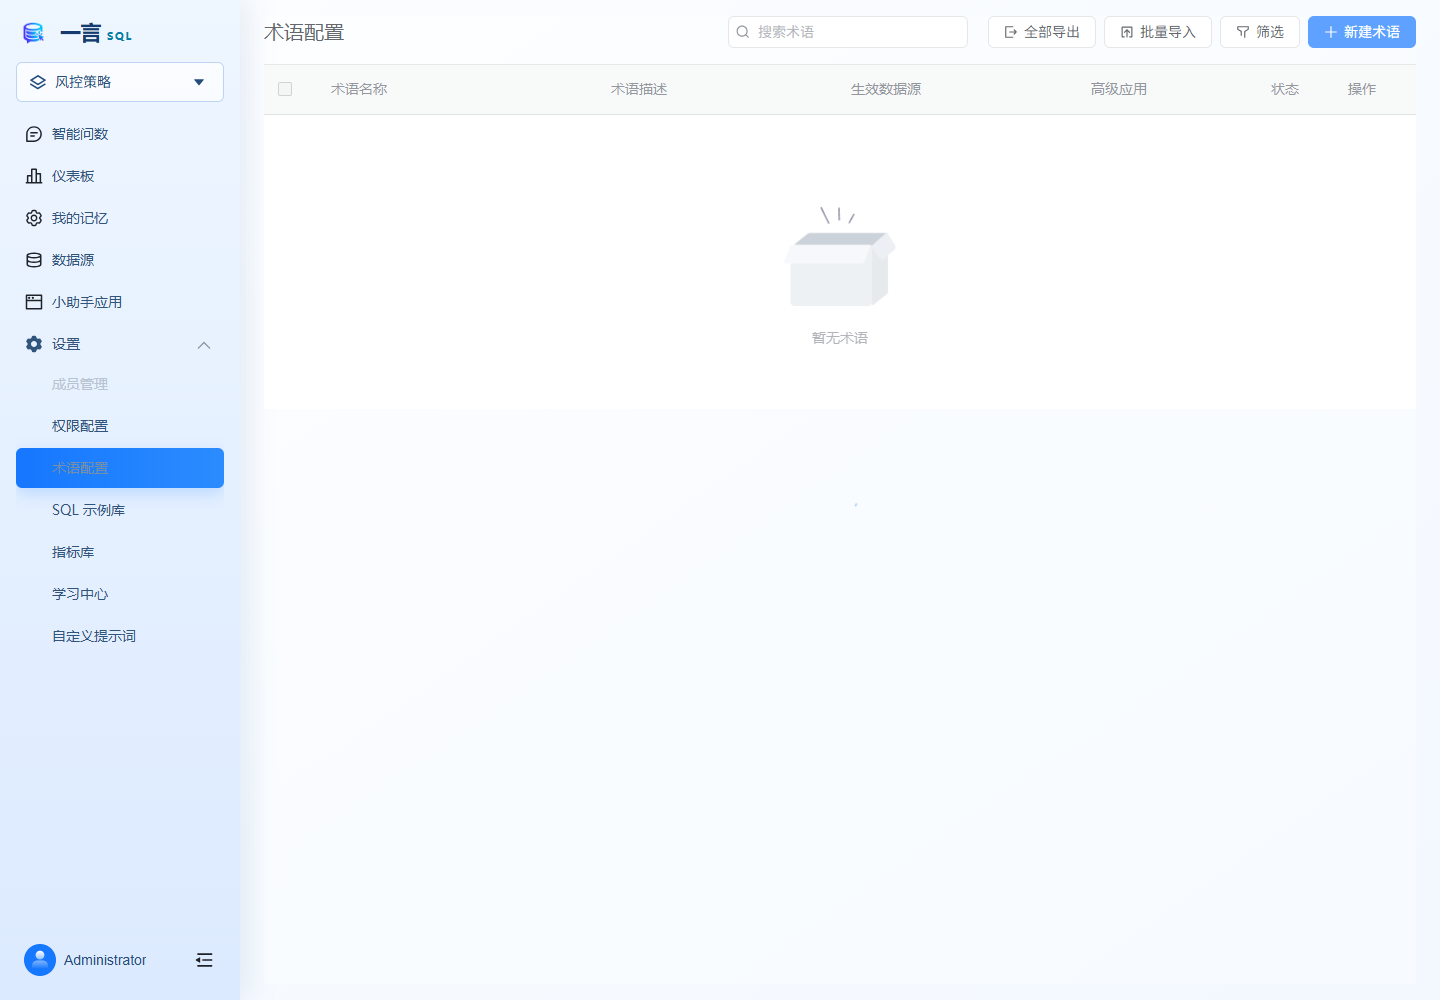
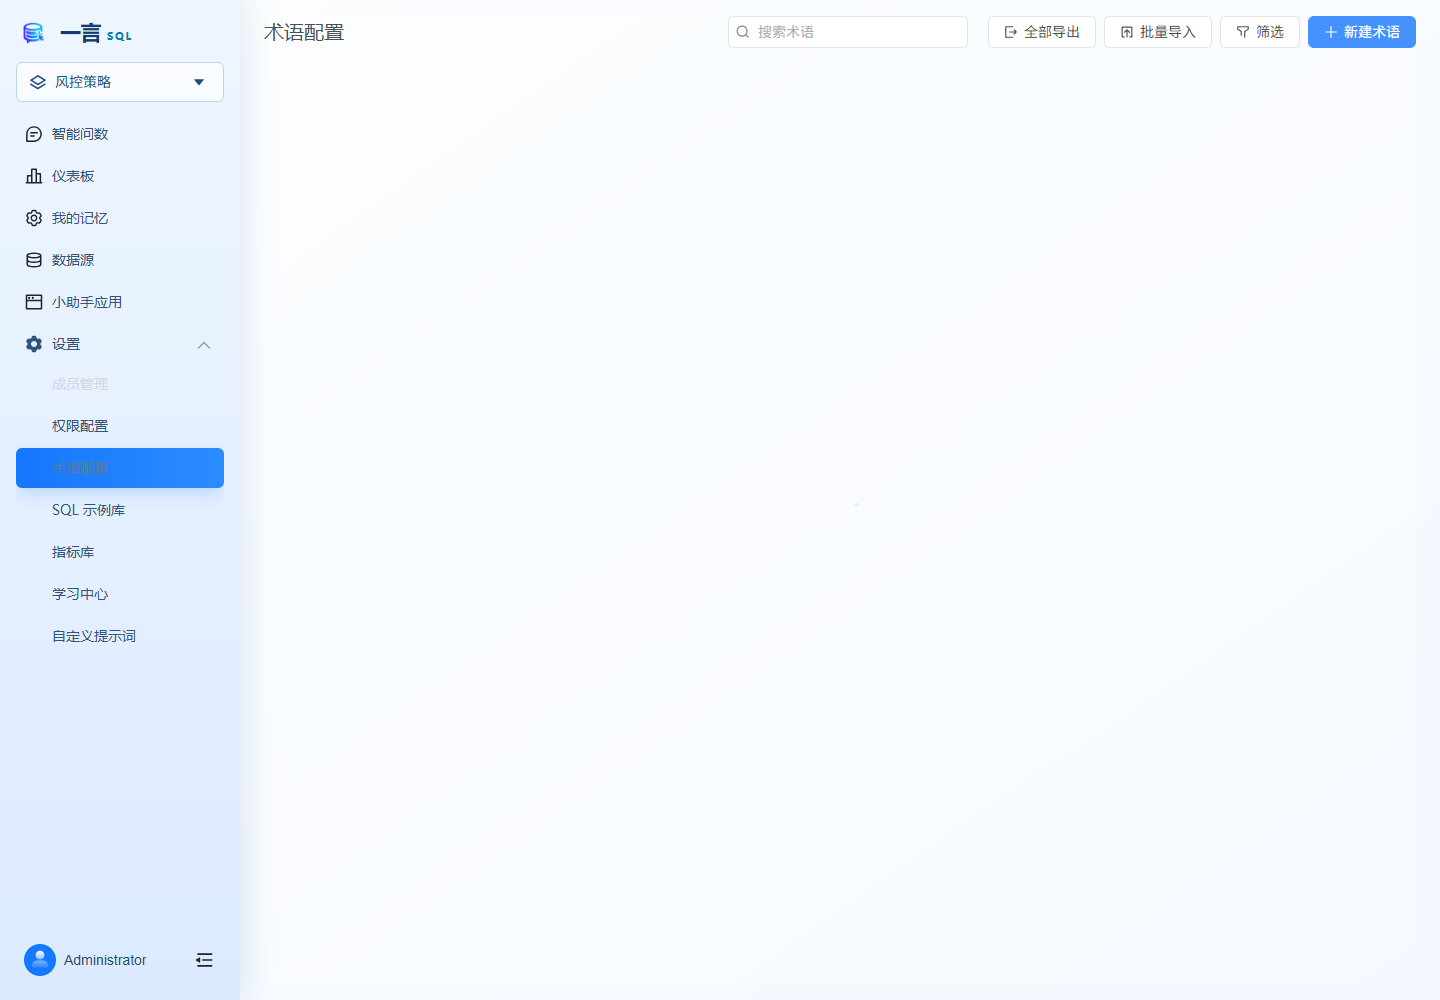
feat：新增密码修改功能

diff --git a/frontend/src/views/system/user/User.vue b/frontend/src/views/system/user/User.vue
@@ -165,61 +165,13 @@
               <el-tooltip
                 :offset="14"
                 effect="dark"
-                :content="$t('common.reset_password')"
+                :content="$t('user.change_password')"
                 placement="top"
               >
-                <el-icon
-                  :ref="
-                    (el: any) => {
-                      setButtonRef(el, scope.row)
-                    }
-                  "
-                  v-click-outside="() => onClickOutside(scope.row)"
-                  class="action-btn"
-                  size="16"
-                >
+                <el-icon class="action-btn" size="16" @click="openPasswordDialog(scope.row)">
                   <IconLock></IconLock>
                 </el-icon>
               </el-tooltip>
-              <el-popover
-                :ref="
-                  (el: any) => {
-                    setPopoverRef(el, scope.row)
-                  }
-                "
-                placement="right"
-                virtual-triggering
-                :width="300"
-                :virtual-ref="scope.row.buttonRef"
-                trigger="click"
-                show-arrow
-              >
-                <div class="reset-pwd-confirm">
-                  <div class="confirm-header">
-                    <span class="icon-span">
-                      <el-icon size="24">
-                        <icon_warning_filled class="svg-icon" />
-                      </el-icon>
-                    </span>
-                    <span class="header-span">{{ t('datasource.the_original_one') }}</span>
-                  </div>
-                  <div class="confirm-content">
-                    <span>{{ defaultPwd }}</span>
-                    <el-button style="margin-left: 4px" text @click="copyText">{{
-                      t('datasource.copy')
-                    }}</el-button>
-                  </div>
-                  <div class="confirm-foot">
-                    <el-button secondary @click="closeResetInfo(scope.row)">{{
-                      t('common.cancel')
-                    }}</el-button>
-                    <el-button type="primary" @click="handleEditPassword(scope.row.id)">
-                      {{ t('datasource.confirm') }}
-                    </el-button>
-                  </div>
-                </div>
-              </el-popover>
-
               <el-tooltip
                 :offset="14"
                 effect="dark"
@@ -538,6 +490,8 @@
       <el-form-item prop="new" :label="t('user.new_password')">
         <el-input
           v-model="password.new"
+          type="password"
+          show-password
           :placeholder="
             $t('datasource.please_enter') + $t('common.empty') + $t('user.new_password')
           "
@@ -545,9 +499,11 @@
           clearable
         />
       </el-form-item>
-      <el-form-item prop="old" :label="t('user.confirm_password')">
+      <el-form-item prop="confirm" :label="t('user.confirm_password')">
         <el-input
-          v-model="password.old"
+          v-model="password.confirm"
+          type="password"
+          show-password
           :placeholder="
             $t('datasource.please_enter') + $t('common.empty') + $t('user.confirm_password')
           "
@@ -575,7 +531,7 @@
 </template>
 
 <script setup lang="ts">
-import { ref, unref, reactive, onMounted, nextTick, h, shallowRef, watch } from 'vue'
+import { ref, reactive, onMounted, nextTick, h, shallowRef, watch } from 'vue'
 import { LicenseGenerator } from '@/services/adaptiveLicense'
 import UserImport from './UserImport.vue'
 import SuccessFilled from '@/assets/svg/gou_icon.svg'
@@ -604,7 +560,6 @@ import { workspaceList } from '@/api/workspace'
 import { variablesApi } from '@/api/variables'
 import { datasourceApi } from '@/api/datasource'
 import { formatTimestamp } from '@/utils/date'
-import { ClickOutside as vClickOutside } from 'element-plus-secondary'
 import icon_warning_filled from '@/assets/svg/icon_warning_filled.svg'
 import { useClipboard } from '@vueuse/core'
 
@@ -860,29 +815,36 @@ const handleSyncUser = (ele: any) => {
   syncUserRef.value.open(ele.value, ele.name)
 }
 
+const PWD_REGEX =
+  /^(?=.*[a-z])(?=.*[A-Z])(?=.*\d)(?=.*[~!@#$%^&*()_+\-={}|:"<>?`\[\];',./])[A-Za-z\d~!@#$%^&*()_+\-={}|:"<>?`\[\];',./]{8,20}$/
+const validateNewPassword = (_rule: any, value: string, callback: (error?: Error) => void) => {
+  if (!value) {
+    callback(new Error(t('datasource.please_enter') + t('common.empty') + t('user.new_password')))
+  } else if (!PWD_REGEX.test(value)) {
+    callback(new Error(t('user.upgrade_pwd.pwd_format_error')))
+  } else {
+    if (password.value.confirm) passwordRef.value?.validateField('confirm')
+    callback()
+  }
+}
+const validateConfirmPassword = (
+  _rule: any,
+  value: string,
+  callback: (error?: Error) => void
+) => {
+  if (!value) {
+    callback(
+      new Error(t('datasource.please_enter') + t('common.empty') + t('user.confirm_password'))
+    )
+  } else if (value !== password.value.new) {
+    callback(new Error(t('user.upgrade_pwd.two_pwd_not_match')))
+  } else {
+    callback()
+  }
+}
 const passwordRules = {
-  new: [
-    {
-      required: true,
-      message: t('datasource.please_enter') + t('common.empty') + t('user.new_password'),
-      trigger: 'blur',
-    },
-  ],
-  old: [
-    {
-      required: true,
-      message: t('datasource.please_enter') + t('common.empty') + t('user.confirm_password'),
-      trigger: 'blur',
-    },
-  ],
-}
-
-const closeResetInfo = (row: any) => {
-  row.popoverRef?.hide()
-  row.resetInfoShow = false
-}
-const setPopoverRef = (el: any, row: any) => {
-  row.popoverRef = el
+  new: [{ validator: validateNewPassword, trigger: 'blur' }],
+  confirm: [{ validator: validateConfirmPassword, trigger: 'blur' }],
 }
 
 const loadData = () => {
@@ -891,16 +853,6 @@ const loadData = () => {
     const idArr = res.filter((card: any) => card.valid && card.enable).map((ele: any) => ele.id)
     platformType.value = platformType.value.filter((card: any) => idArr.includes(card.value))
   })
-}
-
-const copyText = () => {
-  copy(defaultPwd.value)
-    .then(function () {
-      ElMessage.success(t('embedded.copy_successful'))
-    })
-    .catch(function () {
-      ElMessage.error(t('embedded.copy_failed'))
-    })
 }
 
 const copyPassword = () => {
@@ -913,40 +865,29 @@ const copyPassword = () => {
     })
 }
 
-const setButtonRef = (el: any, row: any) => {
-  row.buttonRef = el
-}
-const onClickOutside = (row: any) => {
-  if (row.popoverRef) {
-    unref(row.popoverRef).popperRef?.delayHide?.()
-  }
-}
-
 const multipleTableRef = ref()
 const multipleSelectionAll = ref<any[]>([])
 const dialogTitle = ref('')
 const passwordRef = ref()
 const password = ref({
   new: '',
-  old: '',
+  confirm: '',
   id: '',
 })
 
 const handleClosePassword = () => {
   dialogVisiblePassword.value = false
+  password.value = { new: '', confirm: '', id: '' }
+}
+
+const openPasswordDialog = (row: any) => {
+  password.value = { new: '', confirm: '', id: row.id }
+  dialogVisiblePassword.value = true
+  nextTick(() => passwordRef.value?.clearValidate())
 }
 
 const deleteValues = (index: number) => {
   state.form.system_variables.splice(index, 1)
-}
-
-const handleEditPassword = (id: any) => {
-  userApi.pwd(id).then(() => {
-    ElMessage({
-      type: 'success',
-      message: t('common.password_reset_successful'),
-    })
-  })
 }
 
 /* const handleUserImport = () => {
@@ -956,10 +897,15 @@ const handleEditPassword = (id: any) => {
 const handleConfirmPassword = () => {
   passwordRef.value.validate((val: any) => {
     if (val) {
-      console.info(val)
+      userApi.updatePassword(password.value.id, { new_pwd: password.value.new }).then(() => {
+        ElMessage({
+          type: 'success',
+          message: t('common.save_success'),
+        })
+        handleClosePassword()
+      })
     }
   })
-  dialogVisiblePassword.value = false
 }
 
 const handleSelectionChange = (val: any[]) => {

diff --git a/frontend/src/api/user.ts b/frontend/src/api/user.ts
@@ -26,6 +26,7 @@ export const userApi = {
   deleteBatch: (data: any) => request.delete(`/user`, { data }),
   get: (key: string) => request.get(`/user/${key}`),
   pwd: (id: any) => request.patch(`/user/pwd/${id}`),
+  updatePassword: (id: any, data: { new_pwd: string }) => request.put(`/user/pwd/${id}`, data),
   status: (data: any) => request.patch('/user/status', data),
   defaultPwd: () => request.get('/user/defaultPwd'),
 }

diff --git a/backend/apps/system/api/user.py b/backend/apps/system/api/user.py
@@ -1,6 +1,6 @@
 from collections import defaultdict
 from typing import Optional
-from fastapi import APIRouter, File, Path, Query, UploadFile
+from fastapi import APIRouter, File, HTTPException, Path, Query, UploadFile
 from sqlmodel import SQLModel, case, or_, select, delete as sqlmodel_delete
 from apps.system.crud.user import check_account_exists, check_email_exists, check_email_format, check_pwd_format, get_db_user, single_delete, user_ws_options
 from apps.system.crud.user_excel import batchUpload, downTemplate, download_error_file
@@ -9,7 +9,7 @@ from apps.system.models.system_model import UserDatasourceModel, UserWsModel, Wo
 from apps.system.models.user import UserModel
 from apps.system.schemas.auth import CacheName, CacheNamespace
 from apps.system.schemas.permission import SqlbotPermission, require_permissions
-from apps.system.schemas.system_schema import PwdEditor, UserCreator, UserEditor, UserGrid, UserInfoDTO, UserLanguage, UserStatus, UserWs
+from apps.system.schemas.system_schema import AdminPwdEditor, PwdEditor, UserCreator, UserEditor, UserGrid, UserInfoDTO, UserLanguage, UserStatus, UserWs
 from common.audit.models.log_model import OperationType, OperationModules
 from common.audit.schemas.logger_decorator import LogConfig, system_log
 from common.core.deps import CurrentUser, SessionDep, Trans
@@ -423,6 +423,27 @@ async def pwdReset(session: SessionDep, current_user: CurrentUser, trans: Trans,
     db_user: UserModel = get_db_user(session=session, user_id=id)
     db_user.password = default_md5_pwd()
     session.add(db_user)
+
+
+@router.put("/pwd/{id}", summary=f"{PLACEHOLDER_PREFIX}update_pwd", description=f"{PLACEHOLDER_PREFIX}update_pwd")
+@require_permissions(permission=SqlbotPermission(role=['admin']))
+@clear_cache(namespace=CacheNamespace.AUTH_INFO, cacheName=CacheName.USER_INFO, keyExpression="id")
+@system_log(LogConfig(operation_type=OperationType.UPDATE_PWD, module=OperationModules.USER, resource_id_expr="id"))
+async def admin_pwd_update(
+    session: SessionDep,
+    current_user: CurrentUser,
+    trans: Trans,
+    editor: AdminPwdEditor,
+    id: int = Path(description=f"{PLACEHOLDER_PREFIX}uid"),
+):
+    if not check_pwd_format(editor.new_pwd):
+        raise Exception(trans('i18n_format_invalid', key=trans('i18n_user.password')))
+    db_user: UserModel = get_db_user(session=session, user_id=id)
+    if not db_user:
+        raise HTTPException(status_code=404, detail=trans('i18n_not_exist', msg=trans('i18n_user.account')))
+    db_user.password = md5pwd(editor.new_pwd)
+    session.add(db_user)
+    return {'id': id}
 
 @router.put("/pwd", summary=f"{PLACEHOLDER_PREFIX}update_pwd", description=f"{PLACEHOLDER_PREFIX}update_pwd")
 @clear_cache(namespace=CacheNamespace.AUTH_INFO, cacheName=CacheName.USER_INFO, keyExpression="current_user.id")

diff --git a/backend/apps/system/schemas/system_schema.py b/backend/apps/system/schemas/system_schema.py
@@ -84,6 +84,10 @@ class PwdEditor(BaseModel):
     new_pwd: str = Field(description=f"{PLACEHOLDER_PREFIX}new_pwd")
 
 
+class AdminPwdEditor(BaseModel):
+    new_pwd: str = Field(description=f"{PLACEHOLDER_PREFIX}new_pwd")
+
+
 class UserWsBase(BaseModel):
     uid_list: list[int] = Field(description=f"{PLACEHOLDER_PREFIX}uid")
     oid: Optional[int] = Field(default=None, description=f"{PLACEHOLDER_PREFIX}oid")
